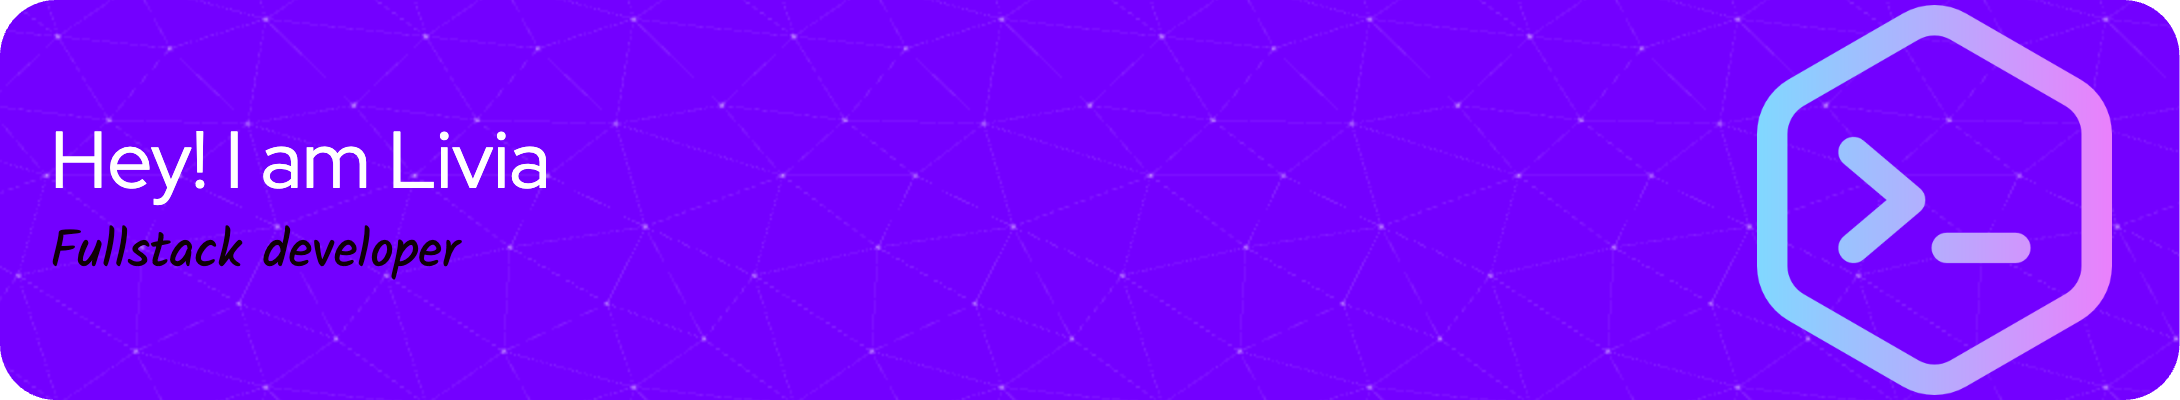
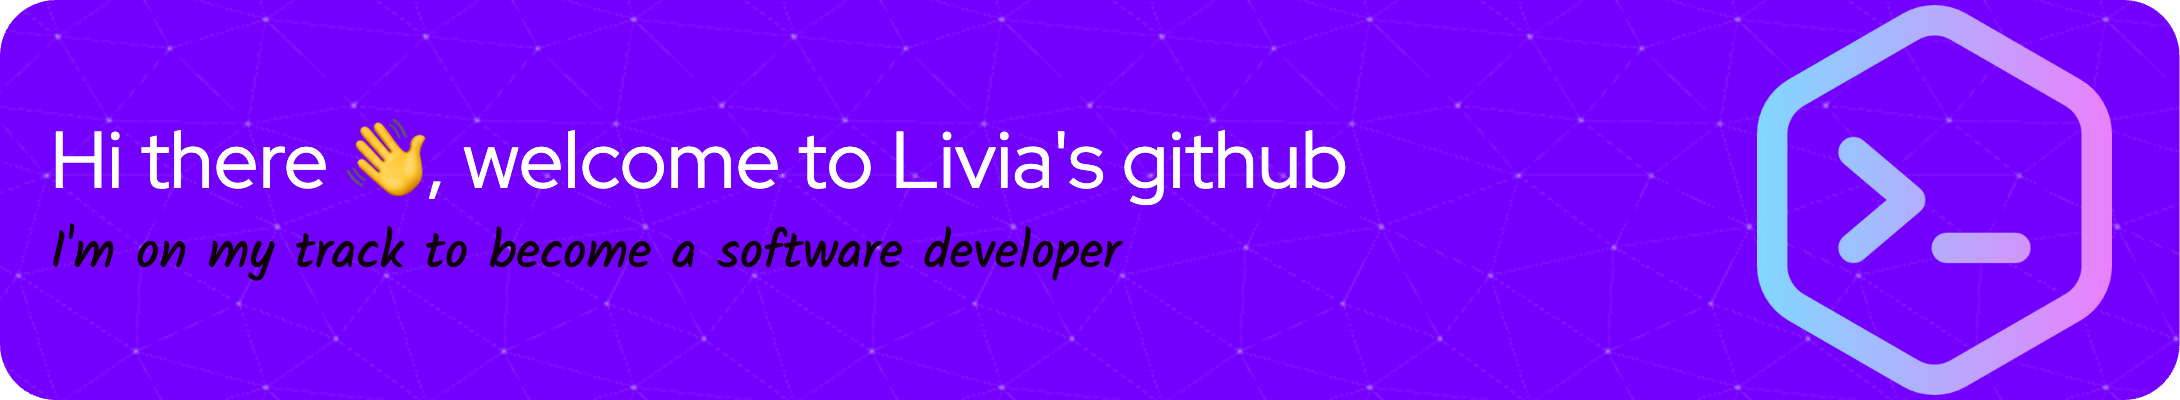
updated README.md

Changed region(s): [[0.0312, 0.3, 0.6239, 0.51], [0.0312, 0.57, 0.5303, 0.69]]

diff --git a/README.md b/README.md
@@ -1,5 +1,3 @@
-### Hi there 👋, my name is Livia
-#### I was a lawyer in NYC and now I'm a software developer
 ![Header](./github-header-image.png)
 
 I used GitHub Profile Generator to make this project, it allows you to create nice and simple GitHub Readme files that you can copy/paste and use in your profile.
